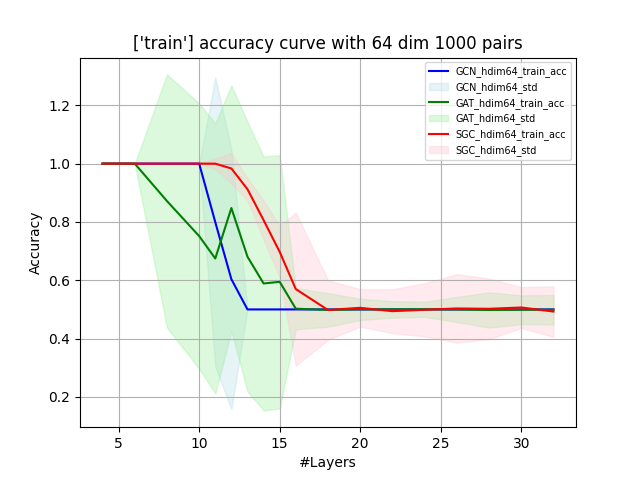
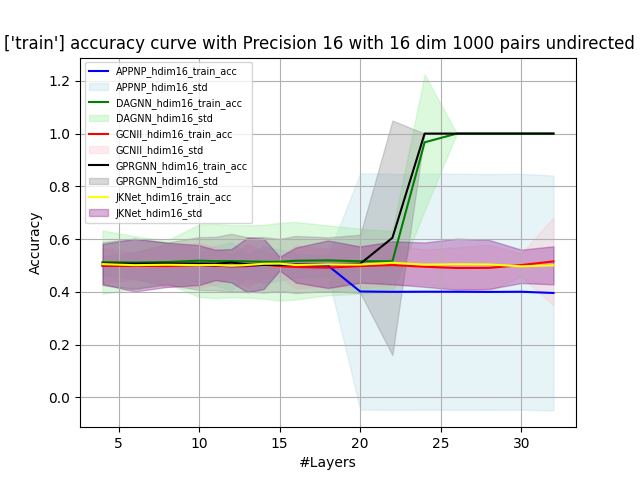
'fixGroupNorm'

diff --git a/acc_easy.py b/acc_easy.py
@@ -108,7 +108,7 @@ def plot_train_test_accuracy_curve_with_covariance(list_container, save_path=Non
     plt.xlabel('#Layers')
     plt.ylabel('Accuracy')
     plt.title(title)
-    plt.legend(loc='upper right',fontsize='x-small')
+    plt.legend(loc='upper left', fontsize='x-small')
     plt.grid(True)
     if save_path:
         plt.savefig(save_path)
@@ -153,30 +153,60 @@ def plot_data_preprocess(acc_list, layer_list, label=None):
 
 
 if __name__ == '__main__':
-    # num_layers_lst = [4, 6, 8, 10, 11, 12, 13, 14, 15, 16, 18, 20, 22, 24, 26, 28, 30, 32]
-    # root = 'logs/reproduce/reproduce/cluster/hdim16'
-    # num_layers = '_4_6_8_10_11_12_13_14_15_16_18_20_22_24_26_28_30_32'
-
     num_layers_lst = [4, 6, 8, 10, 11, 12, 13, 14, 15, 16, 18, 20, 22, 24, 26, 28, 30, 32]
-    hdim = 64
-    root = 'logs/reproduce/reproduce/cluster/hdim64'
+    root = 'logs/reproduce/reproduce/cluster/hdim16'
     num_layers = '_4_6_8_10_11_12_13_14_15_16_18_20_22_24_26_28_30_32'
 
+    # num_layers_lst = [4, 6, 8, 10, 11, 12, 13, 14, 15, 16, 18, 20, 22, 24, 26, 28, 30, 32]
+    # hdim = 64
+    # root = 'logs/reproduce/reproduce/cluster/hdim64'
+    # num_layers = '_4_6_8_10_11_12_13_14_15_16_18_20_22_24_26_28_30_32'
+    #
+    # num_layers_lst = [4, 6, 8, 10, 11, 12, 13, 14, 15, 16, 18, 20, 22, 24, 26, 28, 30, 32]
+    hdim = 16
+    # root = 'logs/reproduce/reproduce/cluster/10000pairs/hdim16'
+    # num_layers = '_4_6_8_10_11_12_13_14_15_16_18_20_22_24_26_28_30_32'
+    #
+    # num_layers_lst = [4, 6, 8, 10, 11, 12, 13, 14, 15, 16, 18, 20, 22, 24, 26, 28, 30, 32]
+    # hdim = 16
+    # root = 'logs/reproduce/reproduce/cluster/WithACM/hdim16'
+    # num_layers = '_4_6_8_10_11_12_13_14_15_16_18_20_22_24_26_28_30_32'
+    #
+    num_layers_lst = [4, 6, 8, 10, 11, 12, 13, 14, 15, 16, 18, 20, 22, 24, 26, 28, 30, 32]
+    hdim = 16
+    root = 'logs/reproduce/reproduce/cluster/undirected/hdim16'
+    num_layers = '_4_6_8_10_11_12_13_14_15_16_18_20_22_24_26_28_30_32'
+    #
+    # num_layers_lst = [4, 6, 8, 10, 11, 12, 13, 14, 15, 16, 18, 20, 22, 24, 26, 28, 30, 32]
+    # hdim = 16
+    # root = 'logs/reproduce/reproduce/cluster/precision/float64/hdim16'
+    # num_layers = '_4_6_8_10_11_12_13_14_15_16_18_20_22_24_26_28_30_32'
+
+    # num_layers_lst = [4, 6, 8, 10, 11, 12, 13, 14, 15, 16, 18, 20, 22, 24, 26, 28, 30, 32]
+    # hdim = 16
+    # root = 'logs/reproduce/reproduce/cluster/precision/float16/hdim16'
+    # num_layers = '_4_6_8_10_11_12_13_14_15_16_18_20_22_24_26_28_30_32'
 
     # num_layers_lst = [2,3, 4, 6, 8, 10, 11, 12, 13, 14, 15, 16, 18, 20, 22, 24, 26, 28, 30, 32]
     # root = 'logs/reproduce/reproduce/cluster/fixedDepth/hdim16'
     # num_layers = '_2_3_4_6_8_10_11_12_13_14_15_16_18_20_22_24_26_28_30_32'
+
+    num_layers_lst = [4, 6, 8, 10, 11, 12, 13, 14, 15, 16, 18, 20, 22, 24, 26, 28, 30, 32]
+    root = 'logs/reproduce/reproduce/cluster/fixedDepth/Depth20/hdim16'
+    num_layers = '_4_6_8_10_11_12_13_14_15_16_18_20_22_24_26_28_30_32'
+
     #### hdim 16
     # GCN
-    GCN_hdim16_acc_dict = torch.load(
-        '{}/Model_GCN_Norm_None_Trick_None/GCN{}layers_syn2_summary.pt'.format(root,num_layers))
-    GCN_hdim16_TrainTestDataContainer = plot_data_preprocess(GCN_hdim16_acc_dict, num_layers_lst, label='GCN_hdim{}'.format(hdim))
-    GCN_hdim16_batch_acc_dict = torch.load(
-        '{}/Model_GCN_Norm_batch_Trick_None/GCN{}layers_syn2_summary.pt'.format(root,num_layers))
-    GCN_hdim16_batch_TrainTestDataContainer = plot_data_preprocess(GCN_hdim16_batch_acc_dict, num_layers_lst,
-                                                                   label='GCN_hdim{}_batch'.format(hdim))
+    # GCN_hdim16_acc_dict = torch.load(
+    #     '{}/Model_GCN_Norm_None_Trick_None/GCN{}layers_syn2_summary.pt'.format(root, num_layers))
+    # GCN_hdim16_TrainTestDataContainer = plot_data_preprocess(GCN_hdim16_acc_dict, num_layers_lst,
+    #                                                          label='GCN_hdim{}'.format(hdim))
+    # GCN_hdim16_batch_acc_dict = torch.load(
+    #     '{}/Model_GCN_Norm_batch_Trick_None/GCN{}layers_syn2_summary.pt'.format(root, num_layers))
+    # GCN_hdim16_batch_TrainTestDataContainer = plot_data_preprocess(GCN_hdim16_batch_acc_dict, num_layers_lst,
+    #                                                                label='GCN_hdim{}_batch'.format(hdim))
     GCN_hdim16_pair_acc_dict = torch.load(
-        '{}/Model_GCN_Norm_pair_Trick_None/GCN{}layers_syn2_summary.pt'.format(root,num_layers))
+        '{}/Model_GCN_Norm_pair_Trick_None/GCN{}layers_syn2_summary.pt'.format(root, num_layers))
     GCN_hdim16_pair_TrainTestDataContainer = plot_data_preprocess(GCN_hdim16_pair_acc_dict, num_layers_lst,
                                                                   label='GCN_hdim{}_pair'.format(hdim))
     # TODO train with 5 grounds
@@ -185,84 +215,104 @@ if __name__ == '__main__':
     # GCN_hdim16_ground_TrainTestDataContainer = plot_data_preprocess(GCN_hdim16_ground_acc_dict, num_layers_lst,
     #                                                               label='GCN_hdim16_ground')
 
-    GCN_hdim16_residual_acc_dict = torch.load(
-        '{}/Model_GCN_Norm_None_Trick_Residual/GCN{}layers_syn2_summary.pt'.format(root,num_layers))
-    GCN_hdim16_residual_TrainTestDataContainer = plot_data_preprocess(GCN_hdim16_residual_acc_dict, num_layers_lst,
-                                                                        label='GCN_hdim{}_residual'.format(hdim))
-
-
+    # GCN_hdim16_residual_acc_dict = torch.load(
+    #     '{}/Model_GCN_Norm_None_Trick_Residual/GCN{}layers_syn2_summary.pt'.format(root, num_layers))
+    # GCN_hdim16_residual_TrainTestDataContainer = plot_data_preprocess(GCN_hdim16_residual_acc_dict, num_layers_lst,
+    #                                                                   label='GCN_hdim{}_residual'.format(hdim))
 
     # GAT
-    GAT_hdim16_acc_dict = torch.load(
-        '{}/Model_GAT_Norm_None_Trick_None/GAT{}layers_syn2_summary.pt'.format(root,num_layers))
-    GAT_hdim16_TrainTestDataContainer = plot_data_preprocess(GAT_hdim16_acc_dict, num_layers_lst, label='GAT_hdim{}'.format(hdim))
+    # GAT_hdim16_acc_dict = torch.load(
+    #     '{}/Model_GAT_Norm_None_Trick_None/GAT{}layers_syn2_summary.pt'.format(root, num_layers))
+    # GAT_hdim16_TrainTestDataContainer = plot_data_preprocess(GAT_hdim16_acc_dict, num_layers_lst,
+    #                                                          label='GAT_hdim{}'.format(hdim))
+    #
+    # GAT_hdim16_batch_acc_dict = torch.load(
+    #     '{}/Model_GAT_Norm_batch_Trick_None/GAT{}layers_syn2_summary.pt'.format(root, num_layers))
+    # GAT_hdim16_batch_TrainTestDataContainer = plot_data_preprocess(GAT_hdim16_batch_acc_dict, num_layers_lst,
+    #                                                                label='GAT_hdim{}_batch'.format(hdim))
+    # GAT_hdim16_pair_acc_dict = torch.load(
+    #     '{}/Model_GAT_Norm_pair_Trick_None/GAT{}layers_syn2_summary.pt'.format(root, num_layers))
+    # GAT_hdim16_pair_TrainTestDataContainer = plot_data_preprocess(GAT_hdim16_pair_acc_dict, num_layers_lst,
+    #                                                               label='GAT_hdim{}_pair'.format(hdim))
 
-    GAT_hdim16_batch_acc_dict = torch.load(
-        '{}/Model_GAT_Norm_batch_Trick_None/GAT{}layers_syn2_summary.pt'.format(root,num_layers)  )
-    GAT_hdim16_batch_TrainTestDataContainer = plot_data_preprocess(GAT_hdim16_batch_acc_dict, num_layers_lst,
-                                                                     label='GAT_hdim{}_batch'.format(hdim))
-    GAT_hdim16_pair_acc_dict = torch.load(
-        '{}/Model_GAT_Norm_pair_Trick_None/GAT{}layers_syn2_summary.pt'.format(root,num_layers)  )
-    GAT_hdim16_pair_TrainTestDataContainer = plot_data_preprocess(GAT_hdim16_pair_acc_dict, num_layers_lst,
-                                                                    label='GAT_hdim{}_pair'.format(hdim))
-
+    # simpleGCN
+    # simpleGCN_hdim16_acc_dict = torch.load(
+    #     '{}/Model_simpleGCN_Norm_None_Trick_None/simpleGCN{}layers_syn2_summary.pt'.format(root,num_layers))
+    # simpleGCN_hdim16_TrainTestDataContainer = plot_data_preprocess(simpleGCN_hdim16_acc_dict, num_layers_lst, label='simpleGCN_hdim{}'.format(hdim))
+    # simpleGCN_hdim16_batch_acc_dict = torch.load(
+    #     '{}/Model_simpleGCN_Norm_batch_Trick_None/simpleGCN{}layers_syn2_summary.pt'.format(root, num_layers))
+    # simpleGCN_hdim16_batch_TrainTestDataContainer = plot_data_preprocess(simpleGCN_hdim16_batch_acc_dict,
+    #                                                                      num_layers_lst,
+    #                                                                      label='simpleGCN_hdim{}_batch'.format(hdim))
+    # simpleGCN_hdim16_pair_acc_dict = torch.load(
+    #     '{}/Model_simpleGCN_Norm_pair_Trick_None/simpleGCN{}layers_syn2_summary.pt'.format(root, num_layers))
+    # simpleGCN_hdim16_pair_TrainTestDataContainer = plot_data_preprocess(simpleGCN_hdim16_pair_acc_dict, num_layers_lst,
+    #                                                                     label='simpleGCN_hdim{}_pair'.format(hdim))
+    # simpleGCN_hdim16_ground_acc_dict = torch.load(
+    #     '{}/Model_simpleGCN_Norm_ground_Trick_None/simpleGCN{}layers_syn2_summary.pt'.format(root,num_layers))
+    # simpleGCN_hdim16_ground_TrainTestDataContainer = plot_data_preprocess(simpleGCN_hdim16_ground_acc_dict, num_layers_lst,
+    #                                                                 label='simpleGCN_hdim{}_ground'.format(hdim))
 
     # SGC
-    SGC_hdim16_acc_dict = torch.load(
-        '{}/Model_SGC_Norm_None_Trick_None/SGC{}layers_syn2_summary.pt'.format(root,num_layers))
-    SGC_hdim16_TrainTestDataContainer = plot_data_preprocess(SGC_hdim16_acc_dict, num_layers_lst, label='SGC_hdim{}'.format(hdim))
-
-    SGC_hdim16_batch_acc_dict = torch.load(
-        '{}/Model_SGC_Norm_batch_Trick_None/SGC{}layers_syn2_summary.pt'.format(root,num_layers))
-    SGC_hdim16_batch_TrainTestDataContainer = plot_data_preprocess(SGC_hdim16_batch_acc_dict, num_layers_lst,
-                                                                        label='SGC_hdim{}_batch'.format(hdim))
-    SGC_hdim16_pair_acc_dict = torch.load(
-        '{}/Model_SGC_Norm_pair_Trick_None/SGC{}layers_syn2_summary.pt'.format(root,num_layers))
-    SGC_hdim16_pair_TrainTestDataContainer = plot_data_preprocess(SGC_hdim16_pair_acc_dict, num_layers_lst,
-                                                                        label='SGC_hdim{}_pair'.format(hdim))
+    # SGC_hdim16_acc_dict = torch.load(
+    #     '{}/Model_SGC_Norm_None_Trick_None/SGC{}layers_syn2_summary.pt'.format(root,num_layers))
+    # SGC_hdim16_TrainTestDataContainer = plot_data_preprocess(SGC_hdim16_acc_dict, num_layers_lst, label='SGC_hdim{}'.format(hdim))
+    #
+    # SGC_hdim16_batch_acc_dict = torch.load(
+    #     '{}/Model_SGC_Norm_batch_Trick_None/SGC{}layers_syn2_summary.pt'.format(root,num_layers))
+    # SGC_hdim16_batch_TrainTestDataContainer = plot_data_preprocess(SGC_hdim16_batch_acc_dict, num_layers_lst,
+    #                                                                     label='SGC_hdim{}_batch'.format(hdim))
+    # SGC_hdim16_pair_acc_dict = torch.load(
+    #     '{}/Model_SGC_Norm_pair_Trick_None/SGC{}layers_syn2_summary.pt'.format(root,num_layers))
+    # SGC_hdim16_pair_TrainTestDataContainer = plot_data_preprocess(SGC_hdim16_pair_acc_dict, num_layers_lst,
+    #                                                                     label='SGC_hdim{}_pair'.format(hdim))
 
     # other methods
     APPNP_hdim16_acc_dict = torch.load(
-        '{}/Model_APPNP_Norm_None_Trick_None/APPNP{}layers_syn2_summary.pt'.format(root,num_layers))
+        '{}/Model_APPNP_Norm_None_Trick_None/APPNP{}layers_syn2_summary.pt'.format(root, num_layers))
     APPNP_hdim16_TrainTestDataContainer = plot_data_preprocess(APPNP_hdim16_acc_dict, num_layers_lst,
-                                                                label='APPNP_hdim{}'.format(hdim))
+                                                               label='APPNP_hdim{}'.format(hdim))
     DAGNN_hdim16_acc_dict = torch.load(
-        '{}/Model_DAGNN_Norm_None_Trick_None/DAGNN{}layers_syn2_summary.pt'.format(root,num_layers))
+        '{}/Model_DAGNN_Norm_None_Trick_None/DAGNN{}layers_syn2_summary.pt'.format(root, num_layers))
     DAGNN_hdim16_TrainTestDataContainer = plot_data_preprocess(DAGNN_hdim16_acc_dict, num_layers_lst,
-                                                                label='DAGNN_hdim{}'.format(hdim))
+                                                               label='DAGNN_hdim{}'.format(hdim))
     GCNII_hdim16_acc_dict = torch.load(
-        '{}/Model_GCNII_Norm_None_Trick_None/GCNII{}layers_syn2_summary.pt'.format(root,num_layers))
+        '{}/Model_GCNII_Norm_None_Trick_None/GCNII{}layers_syn2_summary.pt'.format(root, num_layers))
     GCNII_hdim16_TrainTestDataContainer = plot_data_preprocess(GCNII_hdim16_acc_dict, num_layers_lst,
-                                                                label='GCNII_hdim{}'.format(hdim))
+                                                               label='GCNII_hdim{}'.format(hdim))
     GPRGNN_hdim16_acc_dict = torch.load(
-        '{}/Model_GPRGNN_Norm_None_Trick_None/GPRGNN{}layers_syn2_summary.pt'.format(root,num_layers))
+        '{}/Model_GPRGNN_Norm_None_Trick_None/GPRGNN{}layers_syn2_summary.pt'.format(root, num_layers))
     GPRGNN_hdim16_TrainTestDataContainer = plot_data_preprocess(GPRGNN_hdim16_acc_dict, num_layers_lst,
                                                                 label='GPRGNN_hdim{}'.format(hdim))
     JKNet_hdim16_acc_dict = torch.load(
-        '{}/Model_JKNet_Norm_None_Trick_None/JKNet{}layers_syn2_summary.pt'.format(root,num_layers))
+        '{}/Model_JKNet_Norm_None_Trick_None/JKNet{}layers_syn2_summary.pt'.format(root, num_layers))
     JKNet_hdim16_TrainTestDataContainer = plot_data_preprocess(JKNet_hdim16_acc_dict, num_layers_lst,
-                                                                label='JKNet_hdim{}'.format(hdim))
+                                                               label='JKNet_hdim{}'.format(hdim))
 
     GPRGNN_float64_hdim16_acc_dict = torch.load(
-        'logs/precision/hdim16/Model_GPRGNN_Norm_None_Trick_None/GPRGNN_4_6_8_10_11_12_13_14_15_16_18_20_22_24_26_28_30_32layers_syn2_summary.pt'.format(root,num_layers))
+        'logs/precision/hdim16/Model_GPRGNN_Norm_None_Trick_None/GPRGNN_4_6_8_10_11_12_13_14_15_16_18_20_22_24_26_28_30_32layers_syn2_summary.pt'.format(
+            root, num_layers))
     GPRGNN_float64_hdim16_TrainTestDataContainer = plot_data_preprocess(GPRGNN_float64_hdim16_acc_dict, num_layers_lst,
-                                                                label='GPRGNN_float64_hdim{}'.format(hdim))
+                                                                        label='GPRGNN_float64_hdim{}'.format(hdim))
 
-
-    list_container = [GCN_hdim16_TrainTestDataContainer, GAT_hdim16_TrainTestDataContainer,
-                      SGC_hdim16_TrainTestDataContainer]
+    # list_container = [GCN_hdim16_TrainTestDataContainer, GAT_hdim16_TrainTestDataContainer,simpleGCN_hdim16_batch_TrainTestDataContainer,simpleGCN_hdim16_pair_TrainTestDataContainer,SGC_hdim16_TrainTestDataContainer,SGC_hdim16_batch_TrainTestDataContainer,SGC_hdim16_pair_TrainTestDataContainer]
+    # list_container = [GCN_hdim16_TrainTestDataContainer, GAT_hdim16_TrainTestDataContainer,
+    #                   SGC_hdim16_TrainTestDataContainer]
+    # list_container = [GCN_hdim16_TrainTestDataContainer, GAT_hdim16_TrainTestDataContainer,
+    #                   simpleGCN_hdim16_TrainTestDataContainer]
+    # list_container = [GCN_hdim16_TrainTestDataContainer, GAT_hdim16_TrainTestDataContainer, ]
     # list_container = [GCN_hdim16_TrainTestDataContainer, GCN_hdim16_batch_TrainTestDataContainer,GCN_hdim16_pair_TrainTestDataContainer,GCN_hdim16_residual_TrainTestDataContainer]
     # list_container = [GAT_hdim16_TrainTestDataContainer, GAT_hdim16_batch_TrainTestDataContainer,GAT_hdim16_pair_TrainTestDataContainer]
     # list_container = [SGC_hdim16_TrainTestDataContainer, SGC_hdim16_batch_TrainTestDataContainer,SGC_hdim16_pair_TrainTestDataContainer]
-    # list_container = [APPNP_hdim16_TrainTestDataContainer, DAGNN_hdim16_TrainTestDataContainer,GCNII_hdim16_TrainTestDataContainer,GPRGNN_hdim16_TrainTestDataContainer,JKNet_hdim16_TrainTestDataContainer]
+    list_container = [APPNP_hdim16_TrainTestDataContainer, DAGNN_hdim16_TrainTestDataContainer,GCNII_hdim16_TrainTestDataContainer,GPRGNN_hdim16_TrainTestDataContainer,JKNet_hdim16_TrainTestDataContainer]
     # list_container = [APPNP_hdim16_TrainTestDataContainer, DAGNN_hdim16_TrainTestDataContainer,GCNII_hdim16_TrainTestDataContainer,GPRGNN_hdim16_TrainTestDataContainer,JKNet_hdim16_TrainTestDataContainer,GCN_hdim16_TrainTestDataContainer, GAT_hdim16_TrainTestDataContainer,
     #                   SGC_hdim16_TrainTestDataContainer]
     # list_container = [GPRGNN_hdim16_TrainTestDataContainer]
     # list_container = [JKNet_hdim16_TrainTestDataContainer]
-    list_container = [GPRGNN_float64_hdim16_acc_dict, GPRGNN_hdim16_TrainTestDataContainer]
+    # list_container = [GPRGNN_float64_hdim16_acc_dict, GPRGNN_hdim16_TrainTestDataContainer]
     # acc_type_list = ["train", "test"]
     acc_type_list = ['train']
     # acc_type_list = ['test']
-    title = "{} accuracy curve with 64 dim 1000 pairs".format(acc_type_list)
+    title = "{} accuracy curve with Precision 16 with 16 dim 1000 pairs undirected G".format(acc_type_list)
     plot_train_test_accuracy_curve_with_covariance(list_container, save_path="acc_curve1.png",
                                                    acc_type_list=acc_type_list, title=title)

diff --git a/configs.py b/configs.py
@@ -121,8 +121,8 @@ def arg_parse():
                         help="dropout rate in EdgeDrop")  # 5e-4
 
     parser.add_argument('--node_norm_type', type=str, default="n", choices=['n', 'v', 'm', 'srv', 'pr'])
-    parser.add_argument('--skip_weight', type=float, default=None)
-    parser.add_argument('--num_groups', type=int, default=None)
+    parser.add_argument('--skip_weight', type=float, default=0.005)
+    parser.add_argument('--num_groups', type=int, default=1)
     parser.add_argument('--has_residual_MLP', type=bool, default=False)
 
     # Hyperparameters for random dropout

diff --git a/main.py b/main.py
@@ -149,8 +149,11 @@ if __name__ == "__main__":
 
     # Combination of hyperparameters
     type_models_list = ['GCN','GAT','simpleGCN','GCNII','APPNP','DAGNN','JKNet','GPRGNN']
-    type_norm_list = ['pair', 'batch','ground', 'None']
+    type_models_list = ['GCN']
+    type_norm_list = ['pair', 'batch','group', 'None']
+    type_norm_list = ['group', 'None']
     type_trick_list = ['Residual', 'None']
+    type_trick_list = ['None']
     # type_models_list = ['simpleGCN']
     # type_norm_list = ['GPRGNN']
     # type_norm_list = ['None']

diff --git a/gengraph.py b/gengraph.py
@@ -67,6 +67,9 @@ def perturb(graph_list, p):
     return perturbed_graph_list
 
 
+
+def gen_syn3():
+    pass
 def gen_syn1(height=8, feature_generator=None, max_width=2, max_nodes=20, embedding_dim=16, high_gap=True):
     """ generate pairs of trees with different p.
 
